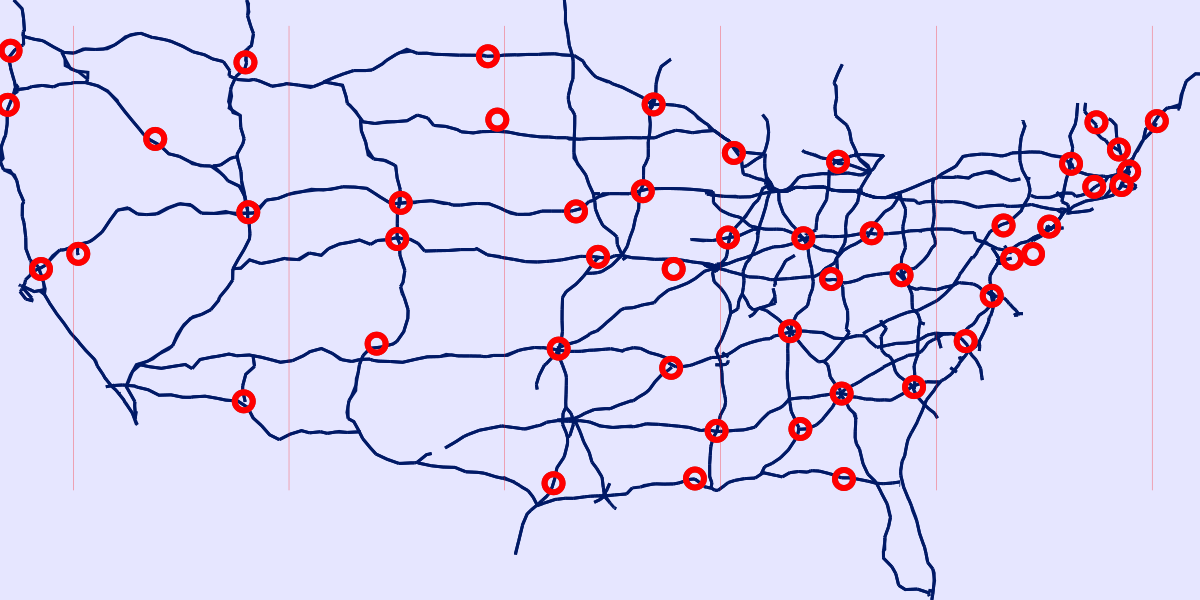
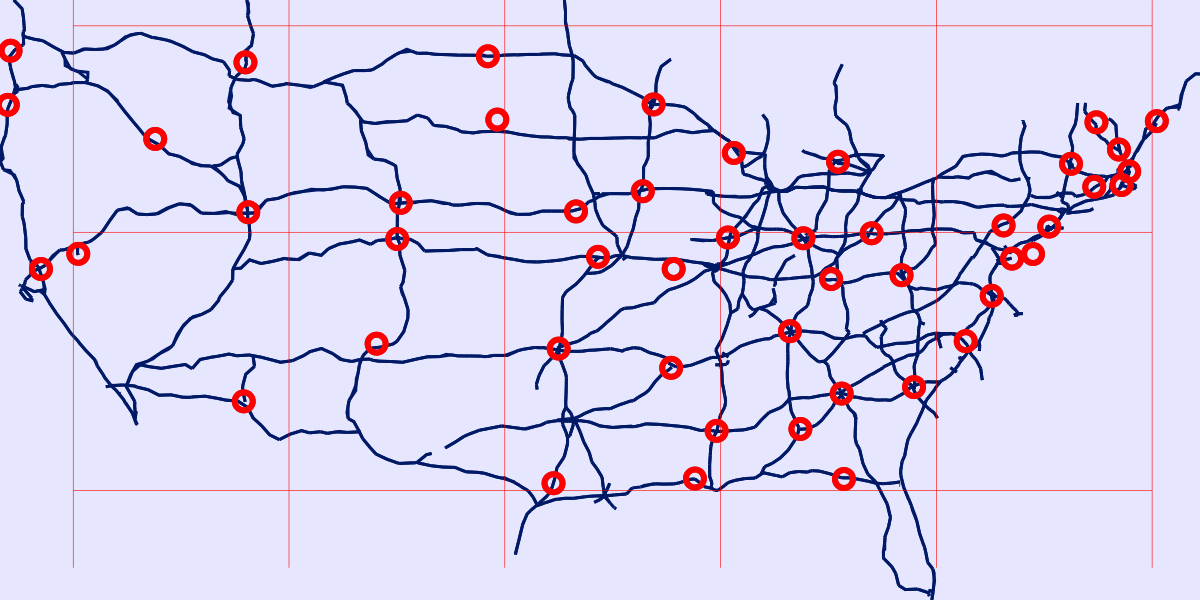
lat long ticks

Changed region(s): [[0.0617, 0.03, 0.9558, 0.06], [0.2158, 0.81, 0.2467, 0.84], [0.2158, 0.36, 0.2467, 0.39]]

diff --git a/2021/08.roads/enShapefile.py b/2021/08.roads/enShapefile.py
@@ -26,7 +26,7 @@ class enShapefile:
   longRange = None
 
   longTick = [-70,-80,-90,-100,-110,-120]
-  latTick  = [30,40,50]
+  latTick  = [30,40,48]
 
   shapes  = None
   fields  = None
@@ -132,11 +132,8 @@ class enShapefile:
     #latTick  = [30,40,50]
     print("plotLatLong")
 
-    minLat = 30; maxLat = 48
+    minLat = 27; maxLat = 49
     for long in self.longTick:
-      print("long:", long)
-      #self.ctx.save()
-
       v1 = self.calcNormLatLong(long, minLat)
       v2 = self.calcNormLatLong(long, maxLat)
       self.ctx.move_to(v1[0], v1[1])
@@ -144,8 +141,17 @@ class enShapefile:
    
       self.ctx.set_source_rgb(1,0,0)
       self.ctx.set_line_width(0.002)
-      #self.ctx.stroke_preserve()
-      #self.ctx.restore()
+      self.ctx.stroke()
+
+    minLong = -70; maxLong = -120
+    for lat in self.latTick:
+      v1 = self.calcNormLatLong(minLong, lat)
+      v2 = self.calcNormLatLong(maxLong, lat)
+      self.ctx.move_to(v1[0], v1[1])
+      self.ctx.line_to(v2[0], v2[1])
+
+      self.ctx.set_source_rgb(1,0,0)
+      self.ctx.set_line_width(0.002)
       self.ctx.stroke()
 
   ################ plotCaiVertSeq ################ 
